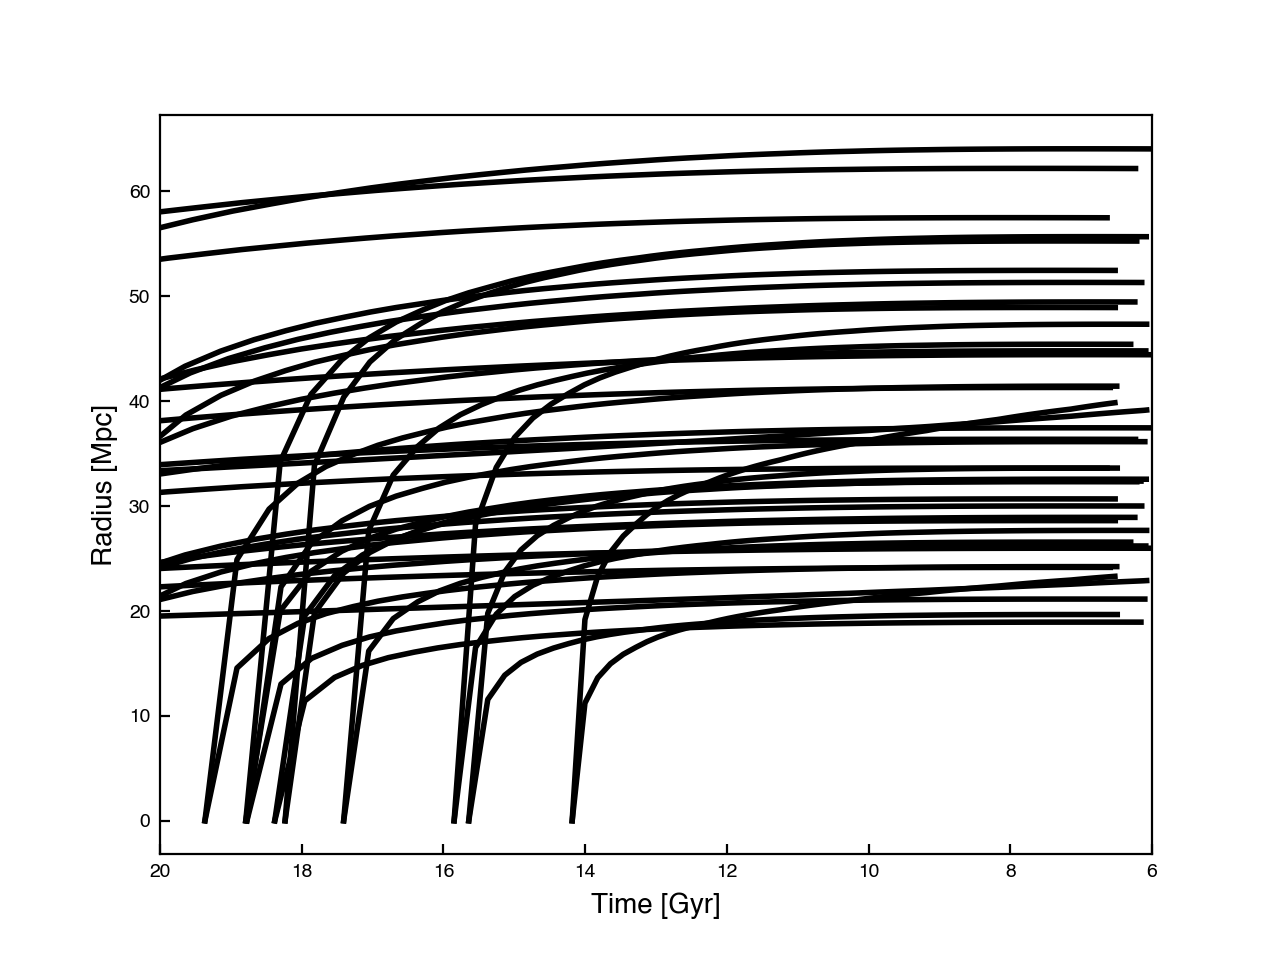
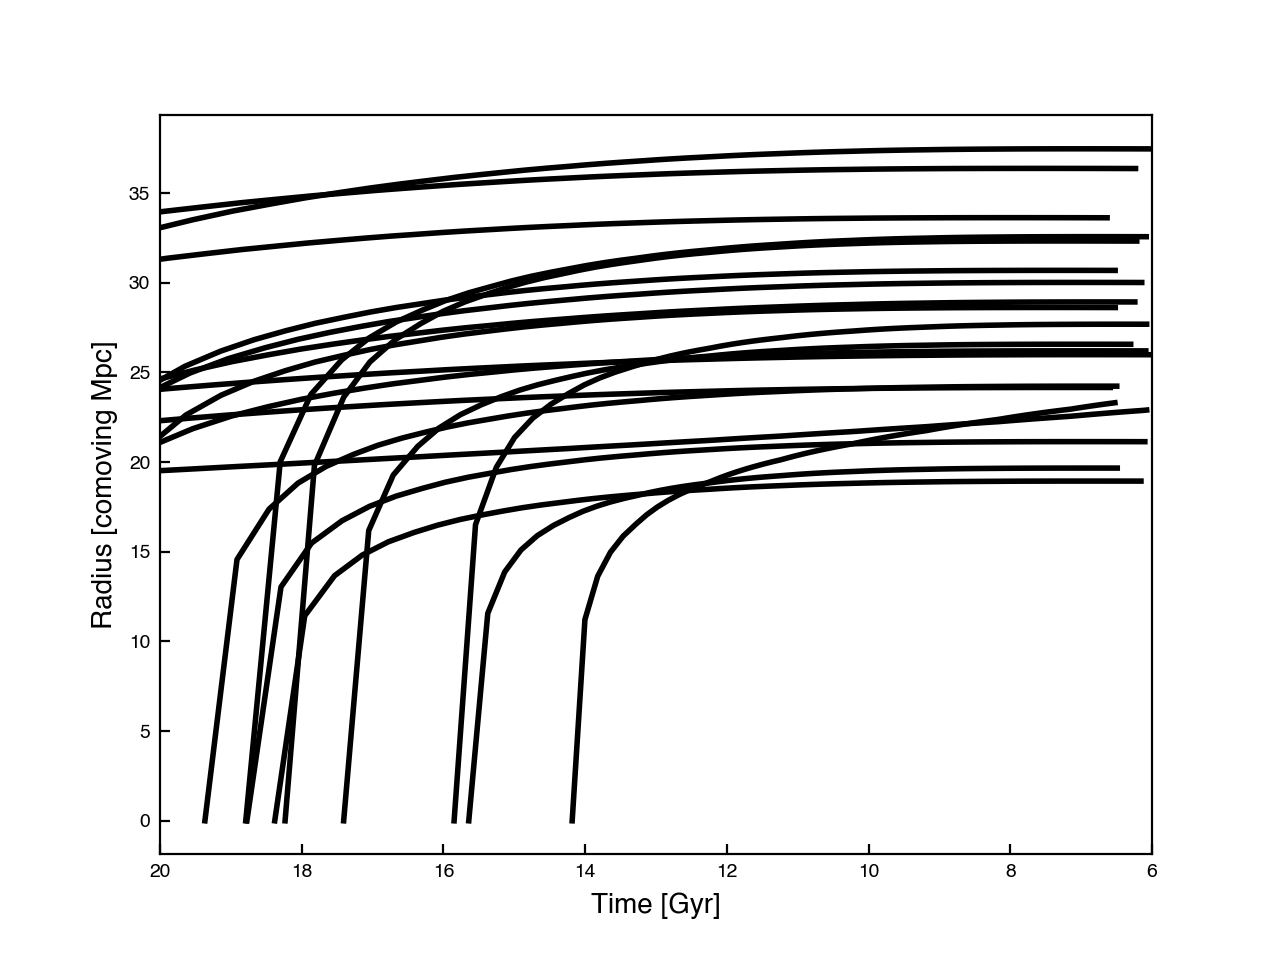
new post

diff --git a/_posts/2023-03-29-Reionization_Shell_Model_Part_III.md b/_posts/2023-03-29-Reionization_Shell_Model_Part_III.md
@@ -1,0 +1,38 @@
+---
+layout: post
+title:  "Reionization Shell Model Part III"
+date:   2023-03-29
+categories: reion
+---
+
+I am planning to calculate the reionized region around each galaxy in the DREaM catalog using a simple shell model, following <a href="https://ui.adsabs.harvard.edu/abs/2018MNRAS.473.5308M/abstract">Magg et al. 2018.</a>.
+
+This is a continuation from a previous post, <a href="">Part I</a>.
+
+## Expected bubble size
+
+
+## Calculate the volume around individual galaxies
+
+As outlined in the previous post, we expect the volume around each galaxy to be
+
+$$ V(t) = f_{\rm esc}\dfrac{e^{- n C \alpha t}}{n} \int e^{ n C \alpha t} \dot{N}_{\rm ion} dt $$
+
+<img src="{{ site.baseurl }}/assets/plots/20230328_Volume.png">
+
+These numbers seem too big to me.
+
+Was using $$n=\langle n_H \rangle$$... the comoving... need to use the current number density... i.e., multiple by $$n = \langle n_H \rangle (1+z)^3$$. Then, the (physical) radius of the bubbles are:
+
+<img src="{{ site.baseurl }}/assets/plots/20230329_Volume.png">
+
+Things to note
+1) these are on the larger side, but I am looking at galaxies in my "test" catalog, which only contains the brightest sources
+2) the bubble size of these individual galaxies eventually decreases... this is liekly because of the declining SFRs. 
+
+## Next steps
+
+1. Dig into the literature, and see what the expected volumes should be
+2. Double check the derivation of this equation, and make sure the values I'm using make sense. Should any be time dependent?
+3. Once I think this makes sense, write code to do this for all galaxies
+4. Plot the reionized regions, see if they agree with radiative transfer simulation findings. (i.e., is the percentage of ionized regions reasonable?)
